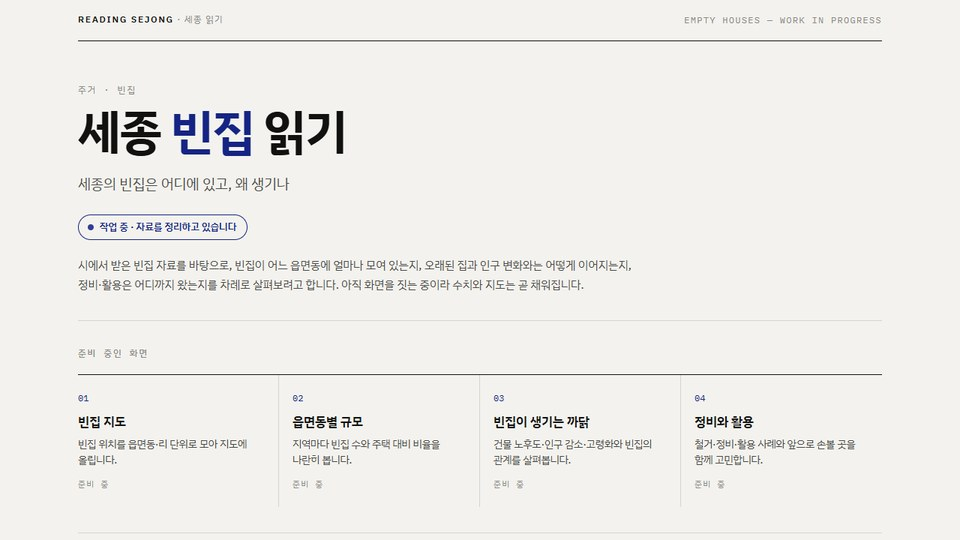
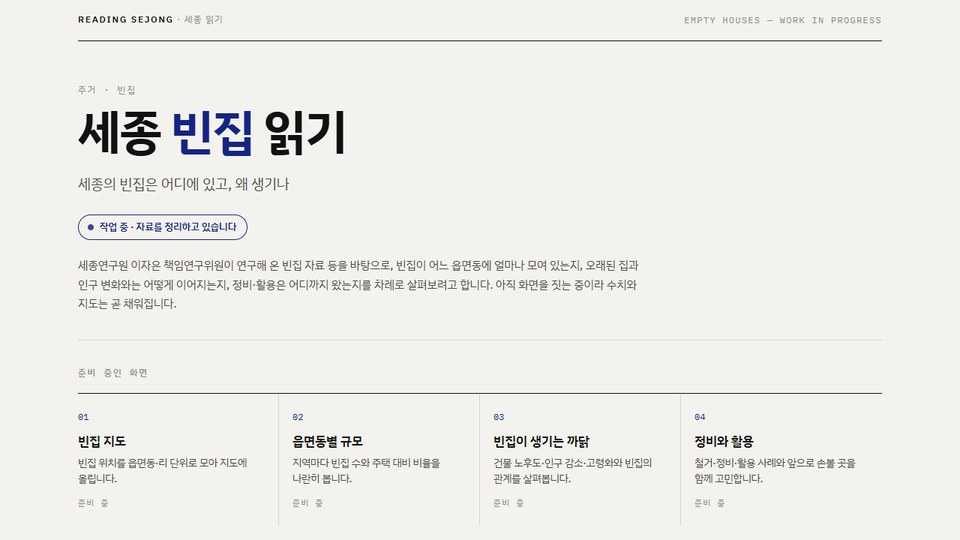
대문: 빈집 읽기 자료 출처를 이자은 책임연구위원 연구 자료로

diff --git a/lang.js b/lang.js
@@ -54,7 +54,7 @@
     "읍면과 신도심의 격차는 좁혀지고 있나": "Is the gap between the rural towns and the new city closing?",
     "행복도시 상가는 왜 비어 있나": "Why are the new city's shops empty?",
     "세종의 빈집은 어디에 있고, 왜 생기나": "Where are Sejong's empty houses, and why do they appear?",
-    "주거 · 빈집": "Housing · Empty houses", "작업 중": "Work in progress", "시 제공 자료": "City-provided data",
+    "주거 · 빈집": "Housing · Empty houses", "작업 중": "Work in progress", "연구 자료": "Research data",
     "소방차와 구급차는 제때 닿는가, 겨울 골목은 안전한가": "Do fire engines and ambulances arrive in time? Are winter alleys safe?",
     "세종의 시간은 어디에 남아 있나": "Where does Sejong's past remain?",
     "강과 물은 지금 어떤가": "How are the rivers and water right now?",
@@ -65,8 +65,8 @@
       "Checks whether the new city's six living zones actually perform the functions planned for them, and how they connect with each other and the wider region, using 25 public-data indicators and neighborhood maps.",
     "1읍 9면과 신도심의 인구·일자리·생활·건물을 나란히 놓고, 조치원·북부권과 햇빛소득 가능성을 살피며, 시정의 약속과 관련해 함께 고민할 거리를 찾아봅니다.":
       "Sets the one town and nine townships beside the new city on population, jobs, daily life and buildings, looks at Jochiwon, the northern area and solar-income potential, and gathers questions to consider alongside the city's policy commitments.",
-    "세종시가 모은 빈집 자료로, 빈집이 어느 읍면동에 얼마나 모여 있는지, 오래된 집·인구 변화와는 어떻게 이어지는지, 정비·활용은 어디까지 왔는지를 살펴봅니다. 지금은 자료를 정리하는 중입니다.":
-      "Uses the city's empty-house records to see how many empty houses sit in each town and neighborhood, how they relate to aging buildings and population change, and how far clean-up and reuse have come. The data is still being prepared.",
+    "세종연구원 이자은 책임연구위원이 연구해 온 빈집 자료 등으로, 빈집이 어느 읍면동에 얼마나 모여 있는지, 오래된 집·인구 변화와는 어떻게 이어지는지, 정비·활용은 어디까지 왔는지를 살펴봅니다. 지금은 자료를 정리하는 중입니다.":
+      "Draws on empty-house research by 이자은, senior research fellow at the Sejong Research Institute, among other sources, to see how many empty houses sit in each town and neighborhood, how they relate to aging buildings and population change, and how far clean-up and reuse have come. The data is still being prepared.",
     "집합상가 287동 전수조사로 본 생활권·동·건물별 상가 공실. 2D·3D 지도와 회귀·머신러닝·멀티레벨로 공실의 원인을 나눠 봅니다.":
       "Shop vacancy by living zone, neighborhood and building from a full survey of 287 commercial buildings, with 2D/3D maps and regression, machine-learning and multilevel models to separate the causes.",
     "지역안전지수 분야별로 읽습니다. 화재안전 탭은 소방차 도달시간과 건물 화재위험을, 겨울 결빙 탭은 골목 낙상 위험과 제설함 후보를(연구진 추정), 구급·응급 탭은 2025년 실제 출동 기록으로 도착·이송 시간과 구급차 부하를 봅니다.":

diff --git a/index.html b/index.html
@@ -338,8 +338,8 @@ const D = [
   {id: "vacant", em: "🏬", cat: "상권 · 경제", q: "행복도시 상가는 왜 비어 있나", path: "vacant_sejong/", title: "세종 행복도시 상가공실 읽기", lock: true, cycle: "전수조사 2023·2025",
    desc: "집합상가 287동 전수조사로 본 생활권·동·건물별 상가 공실. 2D·3D 지도와 회귀·머신러닝·멀티레벨로 공실의 원인을 나눠 봅니다.",
    who: "세종연구원 연구모임", preview: true},
-  {id: "emptyhouse", em: "🏚", cat: "주거 · 빈집", q: "세종의 빈집은 어디에 있고, 왜 생기나", path: "emptyhouse_sejong/", title: "세종 빈집 읽기", lock: true, cycle: "시 제공 자료", collab: "작업 중",
-   desc: "세종시가 모은 빈집 자료로, 빈집이 어느 읍면동에 얼마나 모여 있는지, 오래된 집·인구 변화와는 어떻게 이어지는지, 정비·활용은 어디까지 왔는지를 살펴봅니다. 지금은 자료를 정리하는 중입니다.",
+  {id: "emptyhouse", em: "🏚", cat: "주거 · 빈집", q: "세종의 빈집은 어디에 있고, 왜 생기나", path: "emptyhouse_sejong/", title: "세종 빈집 읽기", lock: true, cycle: "연구 자료", collab: "작업 중",
+   desc: "세종연구원 이자은 책임연구위원이 연구해 온 빈집 자료 등으로, 빈집이 어느 읍면동에 얼마나 모여 있는지, 오래된 집·인구 변화와는 어떻게 이어지는지, 정비·활용은 어디까지 왔는지를 살펴봅니다. 지금은 자료를 정리하는 중입니다.",
    who: "세종연구원 연구모임"},
   {id: "fire", em: "🚒", cat: "재난 · 지역안전", q: "소방차와 구급차는 제때 닿는가, 겨울 골목은 안전한가", path: "fire_sejong/", title: "세종 지역안전 읽기", lock: true, cycle: "화재안전 · 겨울 결빙 · 구급응급",
    desc: "지역안전지수 분야별로 읽습니다. 화재안전 탭은 소방차 도달시간과 건물 화재위험을, 겨울 결빙 탭은 골목 낙상 위험과 제설함 후보를(연구진 추정), 구급·응급 탭은 2025년 실제 출동 기록으로 도착·이송 시간과 구급차 부하를 봅니다.",
